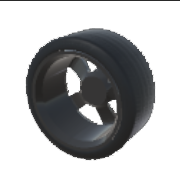
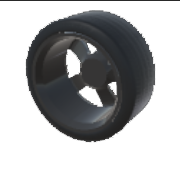
Fix gold spending. Fix player score zeroing on finish. Added thumbnails for wheels

Changed region(s): [[0.1389, 0.0549, 0.8611, 0.8791], [0.1944, 0.467, 0.25, 0.4945], [0.5833, 0.3297, 0.6111, 0.3571]]

diff --git a/Assets/Scripts/Garage/CarShopPage.cs b/Assets/Scripts/Garage/CarShopPage.cs
@@ -45,7 +45,11 @@ namespace Garage
         {
             Player.Instance.AddOwnedCar(_previewedCarInfo.CarId);
             Player.Instance.SelectedCar = _previewedCarInfo.CarId;
-            Player.Instance.Cash -= _previewedCarInfo.Price;
+            
+            if (_previewedCarInfo.IsCurrencyGold)
+                Player.Instance.Gold -= _previewedCarInfo.Price;
+            else
+                Player.Instance.Cash -= _previewedCarInfo.Price;
 
             GAManager.OnMoneySpent(false, _previewedCarInfo.Price, "car", _previewedCarInfo.CarId.ToString());
             priceText.SetText("Owned");

diff --git a/Assets/Scripts/Score/Score.cs b/Assets/Scripts/Score/Score.cs
@@ -2,6 +2,7 @@ using System.Collections;
 using System.Collections.Generic;
 using Drive;
 using Photon.Pun;
+using Photon.Pun.UtilityScripts;
 using TMPro;
 using UnityEngine;
 
@@ -44,6 +45,7 @@ namespace Score
             base.OnDisable();
             if (_coroutine != null)
                 StopCoroutine(_coroutine);
+            PhotonNetwork.LocalPlayer.SetScore(0);
         }
     }
 

diff --git a/Assets/Scripts/Level/UI/PauseMenu.cs b/Assets/Scripts/Level/UI/PauseMenu.cs
@@ -22,7 +22,6 @@ namespace Level.UI
             });
             leaveButton.onClick.AddListener(() =>
             {
-                PhotonNetwork.LocalPlayer.SetScore(0);
                 PhotonNetwork.Disconnect();
                 SceneManager.LoadScene("Garage");
             });
